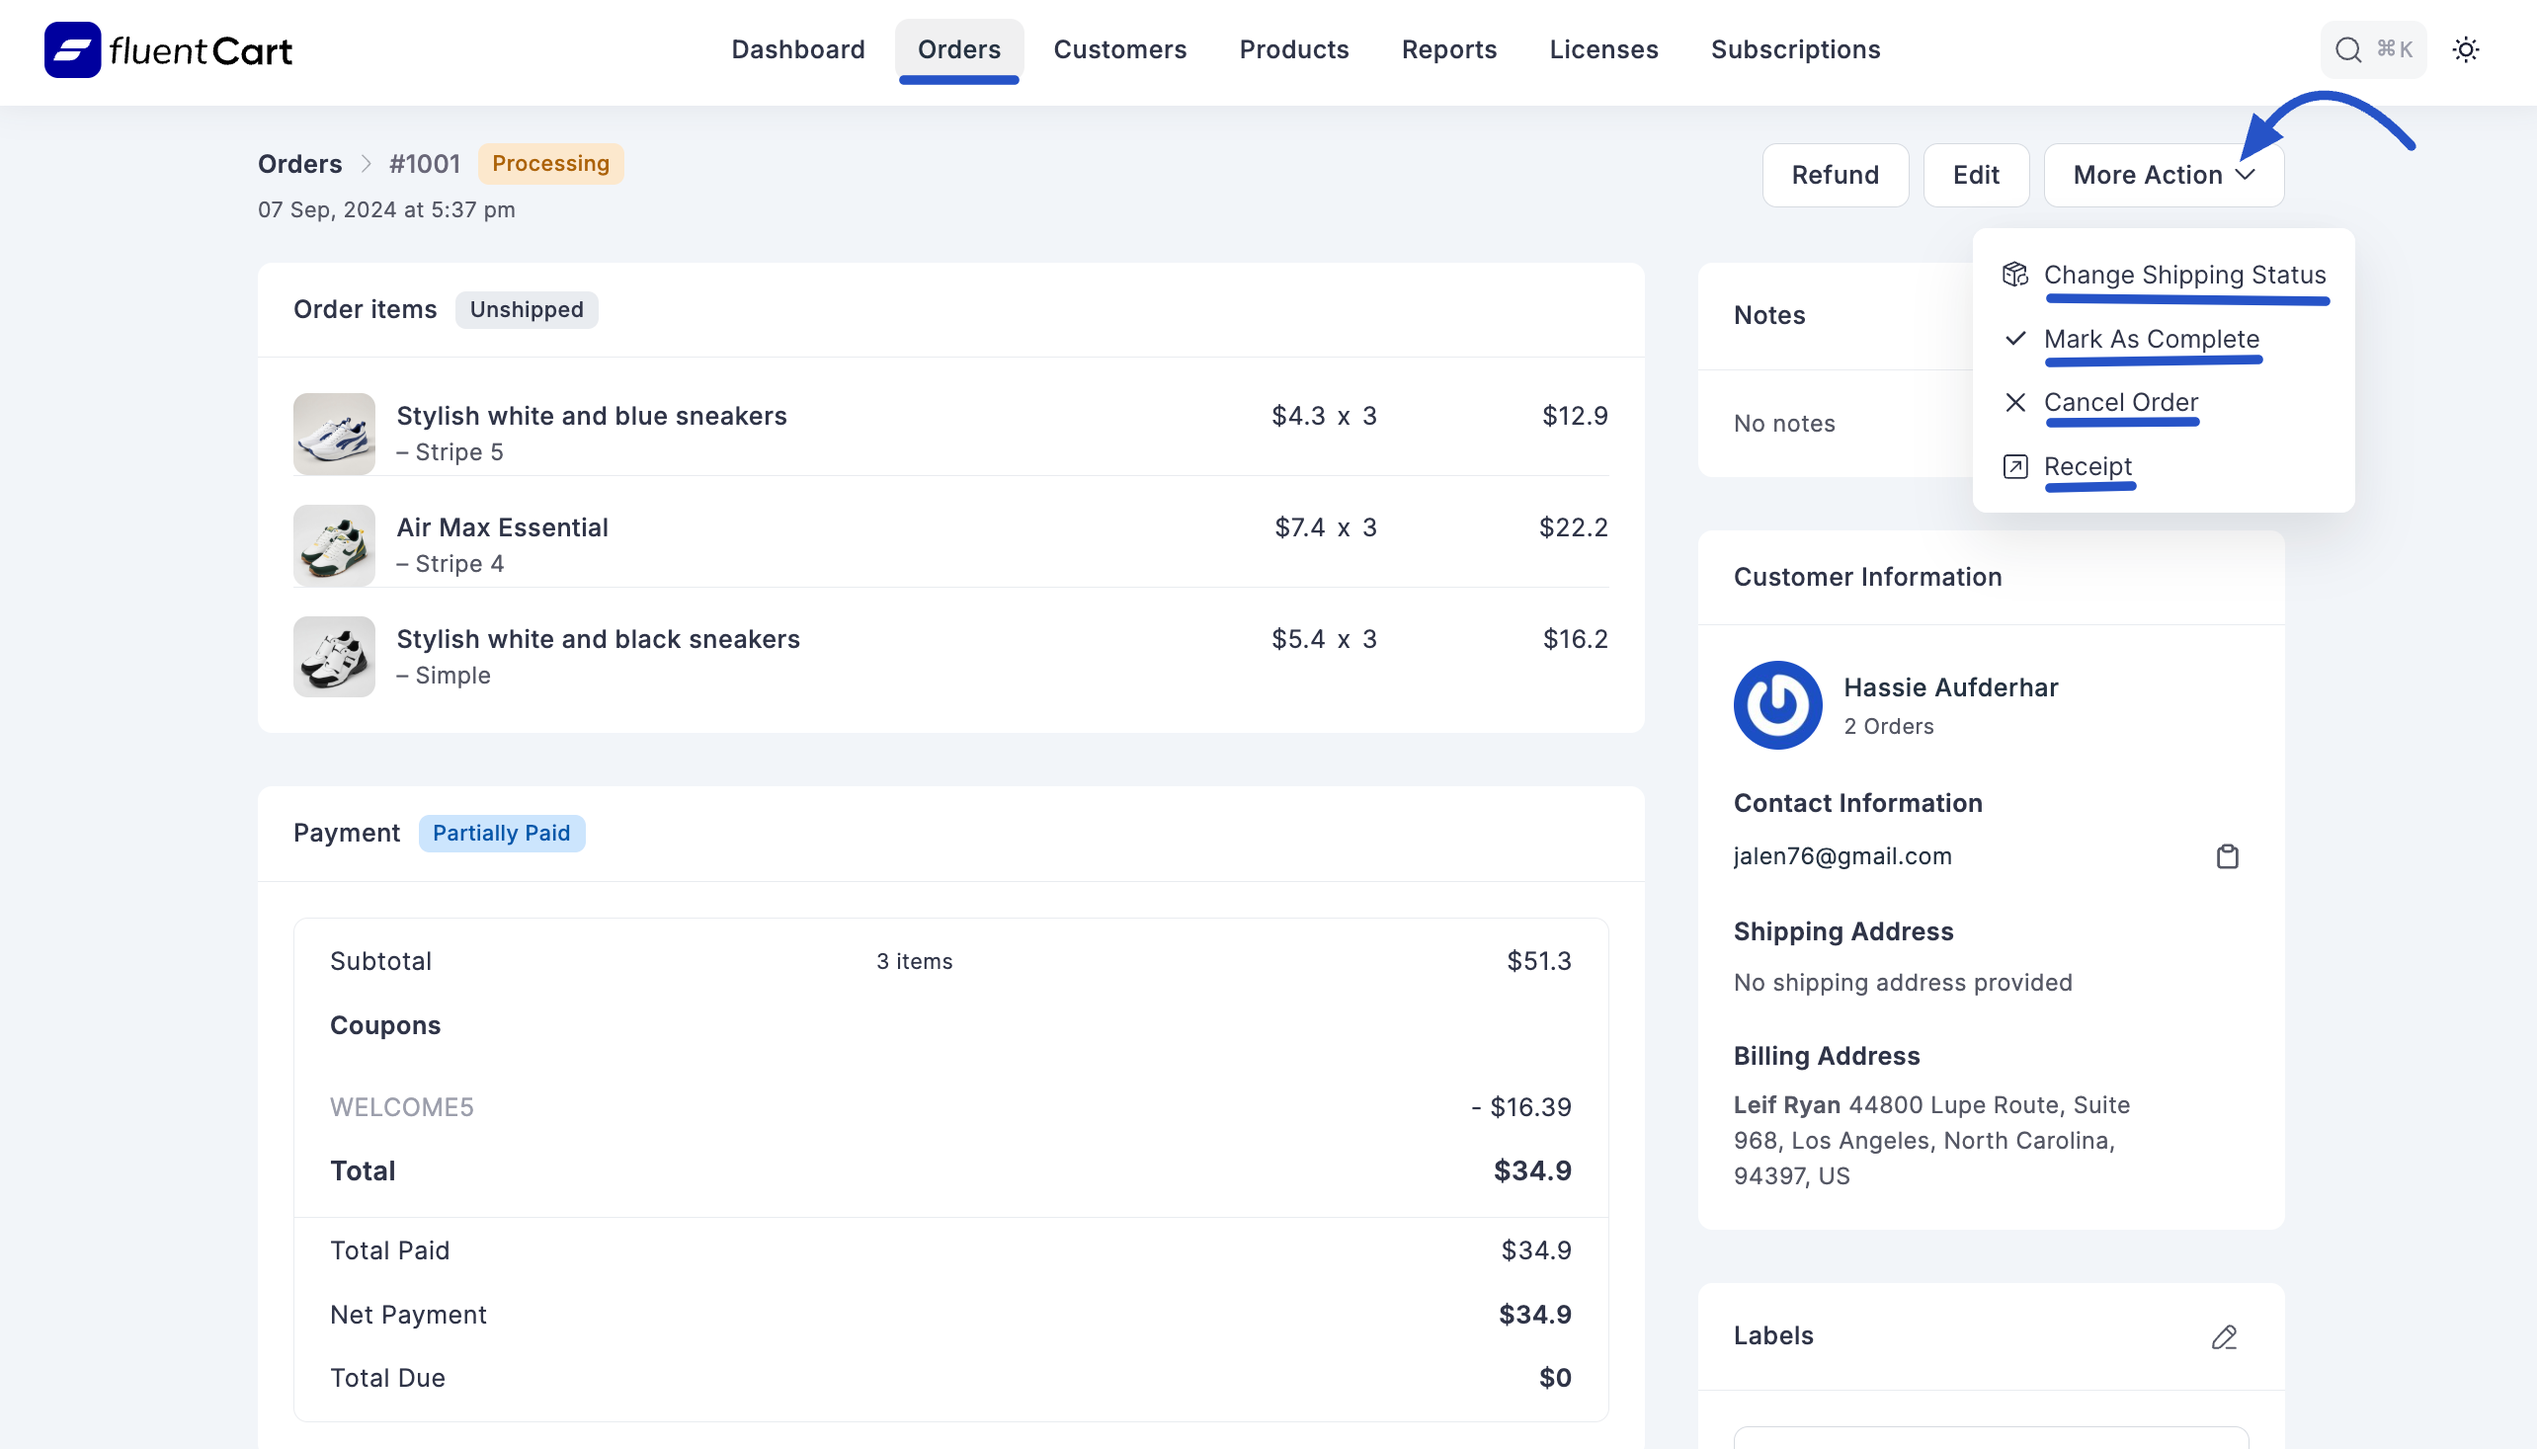
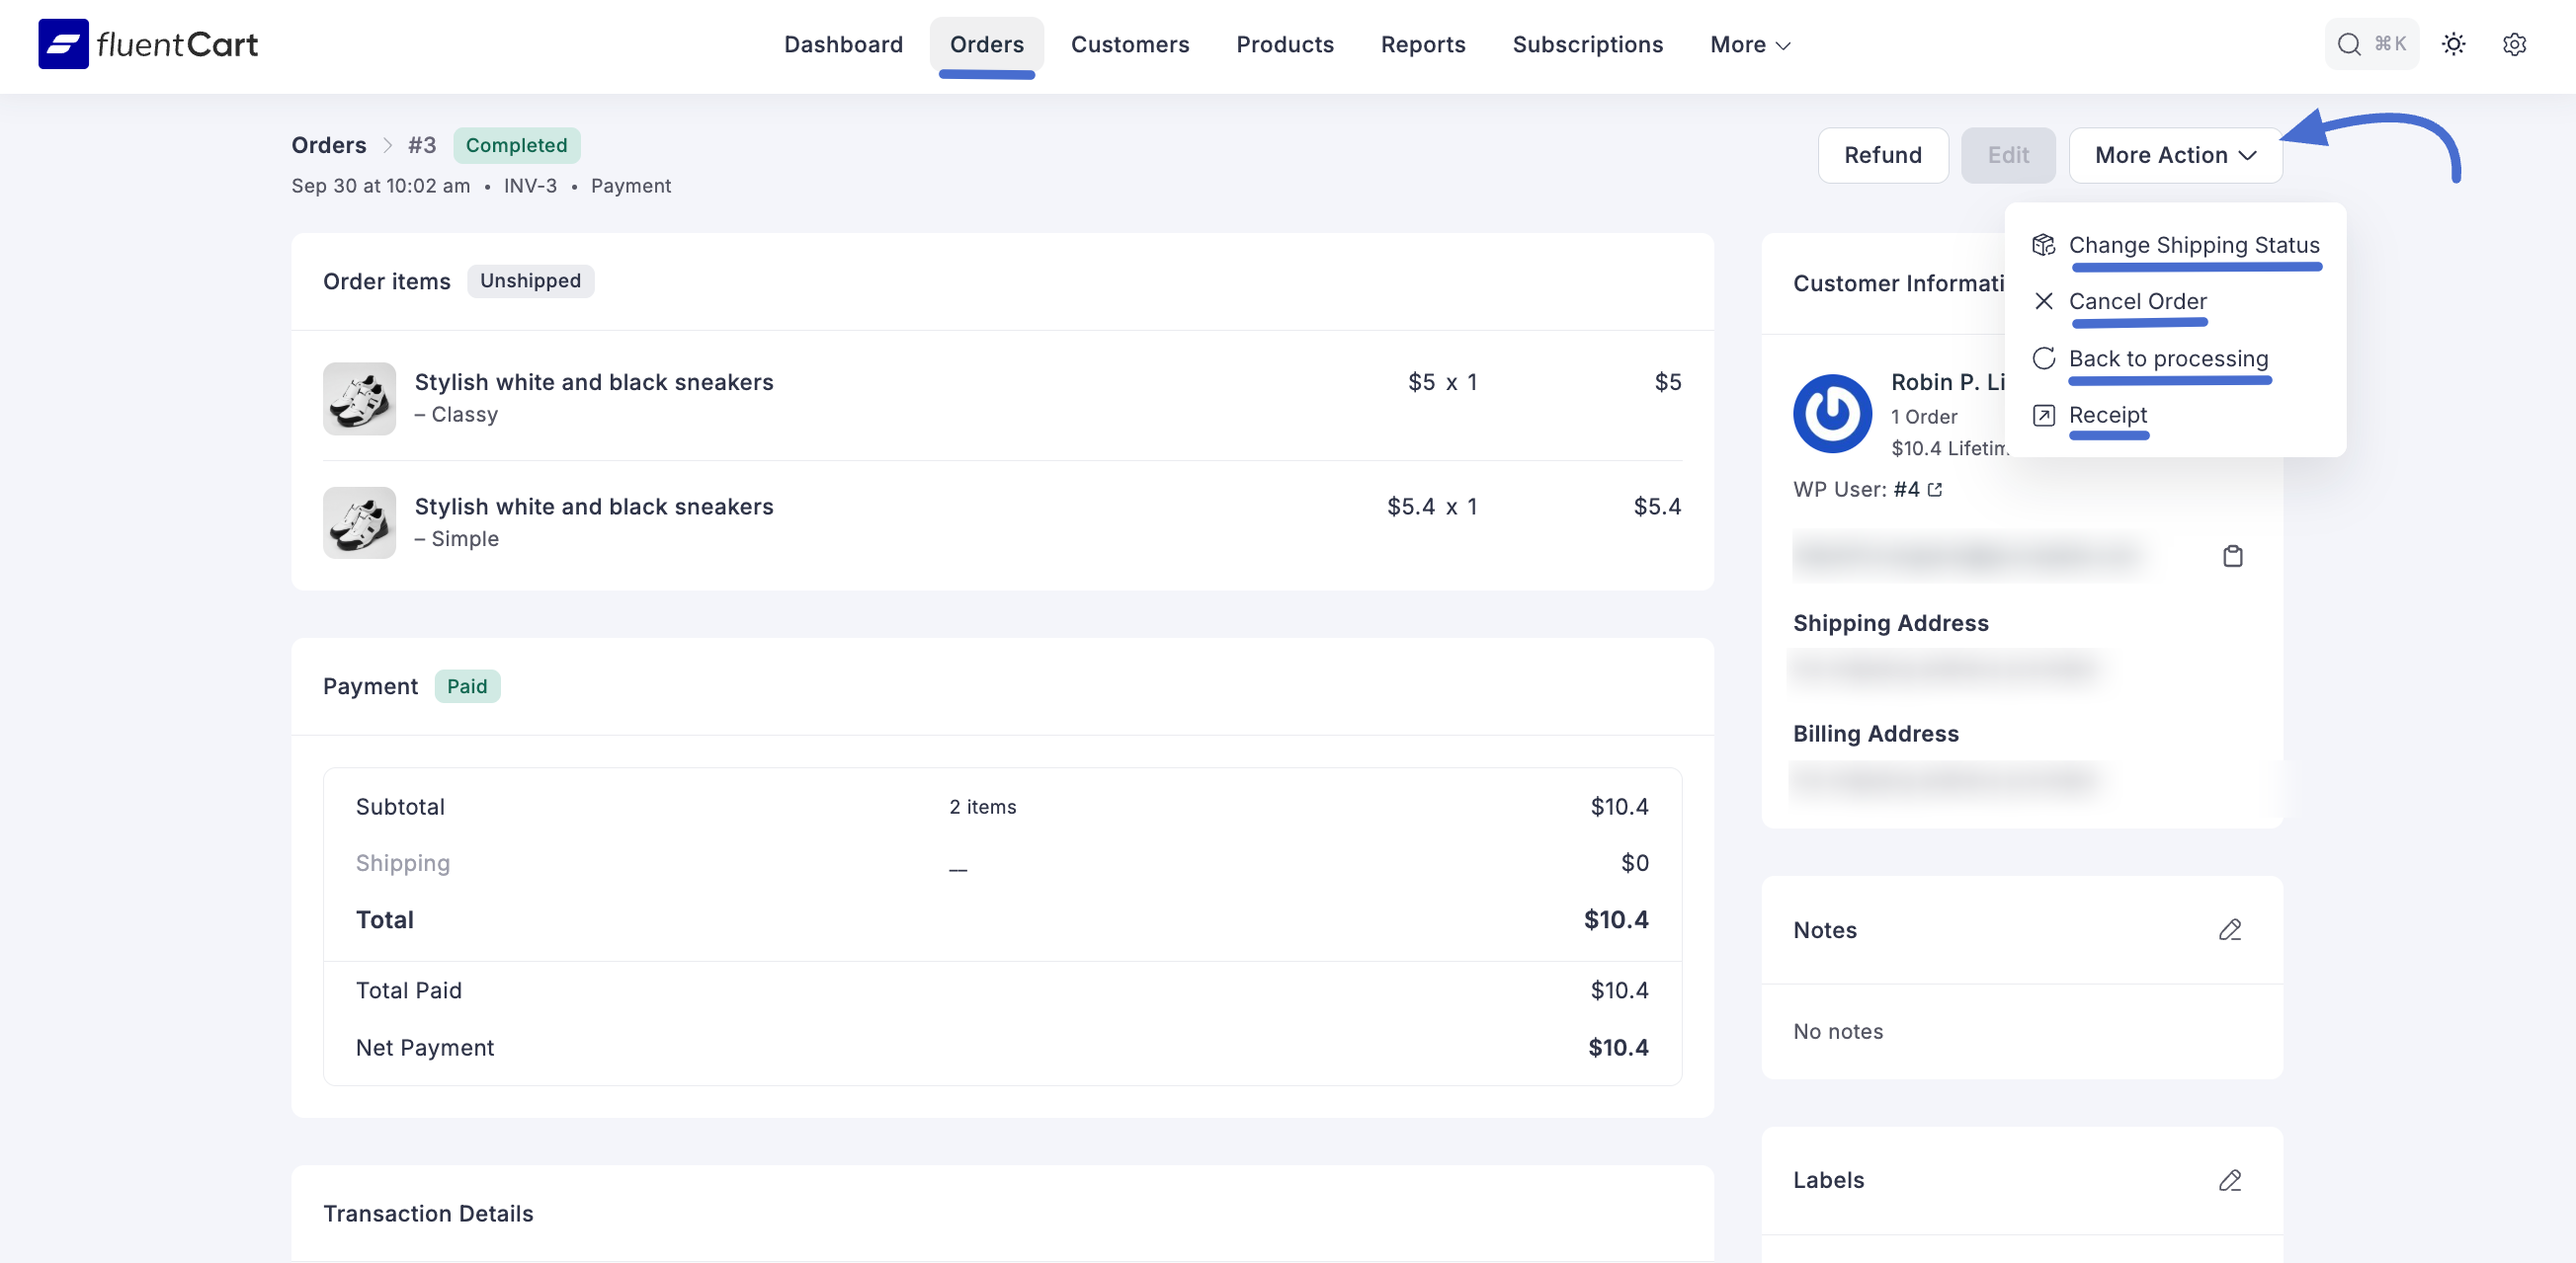
changing order status doc image update
changing order status doc image update

diff --git a/guide/store-management/orders-management/changing-order-statuses.md b/guide/store-management/orders-management/changing-order-statuses.md
@@ -12,6 +12,8 @@ Orders in FluentCart naturally progress through various statuses, indicating the
 * **Canceled:** The order has been canceled by the administrator or customer.
 * **Refunded:** The order has been refunded.
 
+    ![Screenshot of Order Status](/images/store-management/changing-order-statuses/order-status.png)
+
 ## How to Change Order Status
 
 You can change an order's status and perform other related actions from the **[Order Details screen](/guide/store-management/orders-management/order-details-overview)**.
@@ -27,7 +29,7 @@ You can change an order's status and perform other related actions from the **[O
     * **Back to processing:** This action allows you to revert an order's status to "Processing." This is useful if an order was prematurely marked as "Completed" or "On Hold" and still requires further attention or [editing](/guide/store-management/orders-management/editing-existing-orders).
     * **Receipt:** This option typically allows you to view or re-send the customer's purchase receipt for the order.
 
-     ![Screenshot of More Actions Dropdown](/images/store-management/changing-order-statuses/order-more-actions-dropdown.png)
+    ![Screenshot of More Actions Dropdown](/images/store-management/changing-order-statuses/order-more-actions-dropdown.png)
 
 ### Using the Activity Log
 
